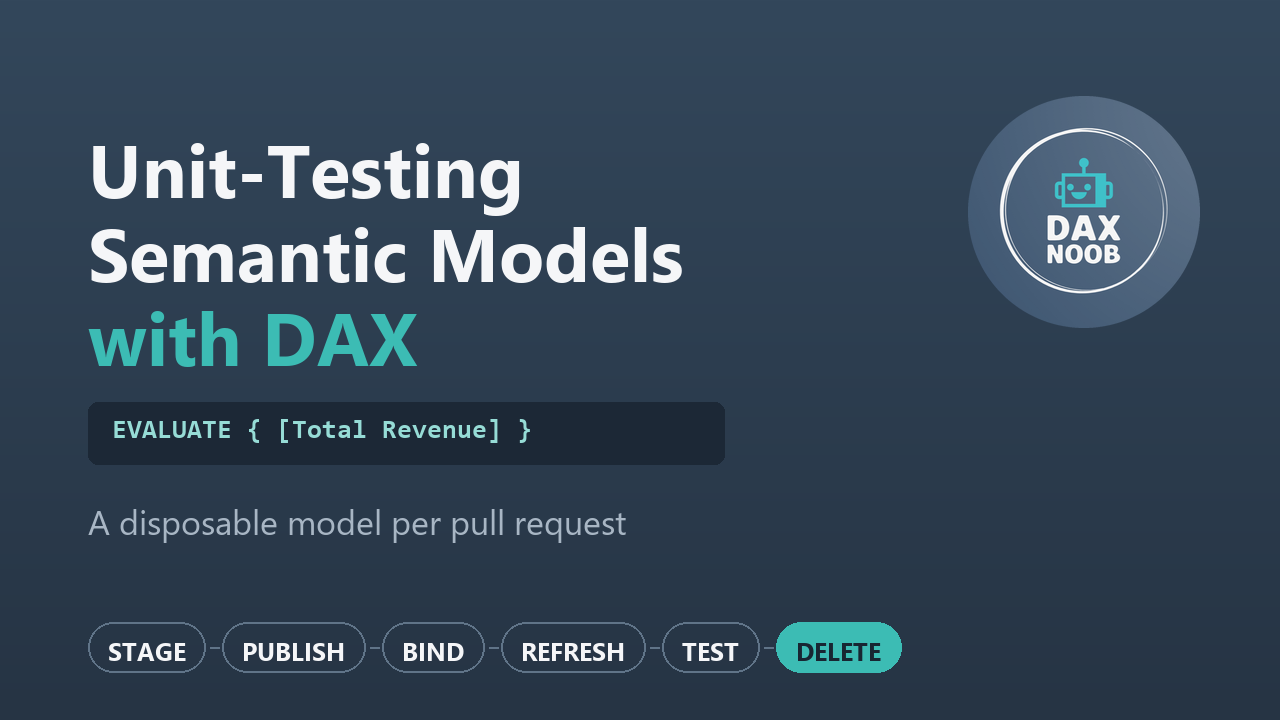
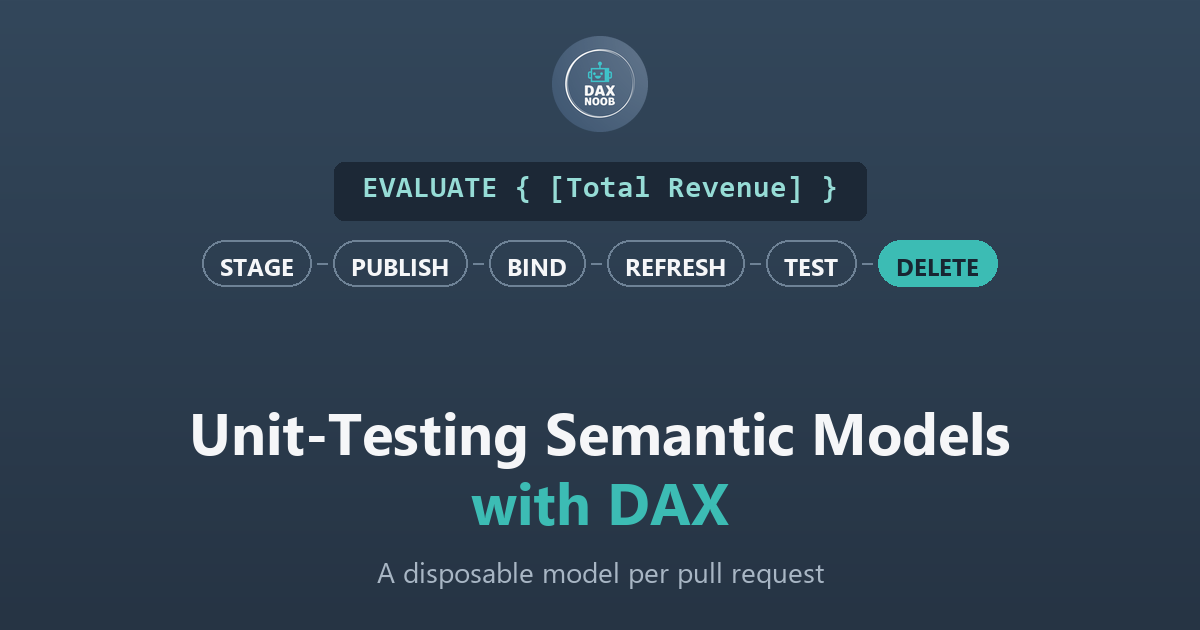
Readable hero image; shorten Direct Lake heading
Copilot-Session: eb7fe3f7-32f3-432d-861a-31c9718b73c2

diff --git a/docs/posts/2026/semantic-model-dax-testing.md b/docs/posts/2026/semantic-model-dax-testing.md
@@ -101,7 +101,7 @@ Here's what each step does:
 
 **Delete.** Runs in a `finally` block, so the temporary model gets deleted even if an assertion fails or the publish errors out. If the model id was never captured, it looks the model up by name before giving up. If the pipeline gets killed, the `finally` block won't run, so if you're running this a lot, it's a good idea to schedule a cleanup job for leftover `TEST_*` models.
 
-### Direct Lake/DirectQuery vs. Import
+### Direct Lake vs. Import
 
 Many of the benefits of this system depend on having a Direct Lake or DirectQuery model. Both of these model types don't need a long refresh process before you can query them which enables us to quickly spin up a net new model and tear it down on each pull request. Import models have to load all of their data before any data assertion can run, and a `Full` refresh on large models would be impractical. If you're using Import, unless the full refresh is fast, I'd stick with Part 1 and keep your PR tests to metadata and shape checks (does the measure resolve, does the query run, does a bad reference still error, etc.). None of those need data loaded.
 
